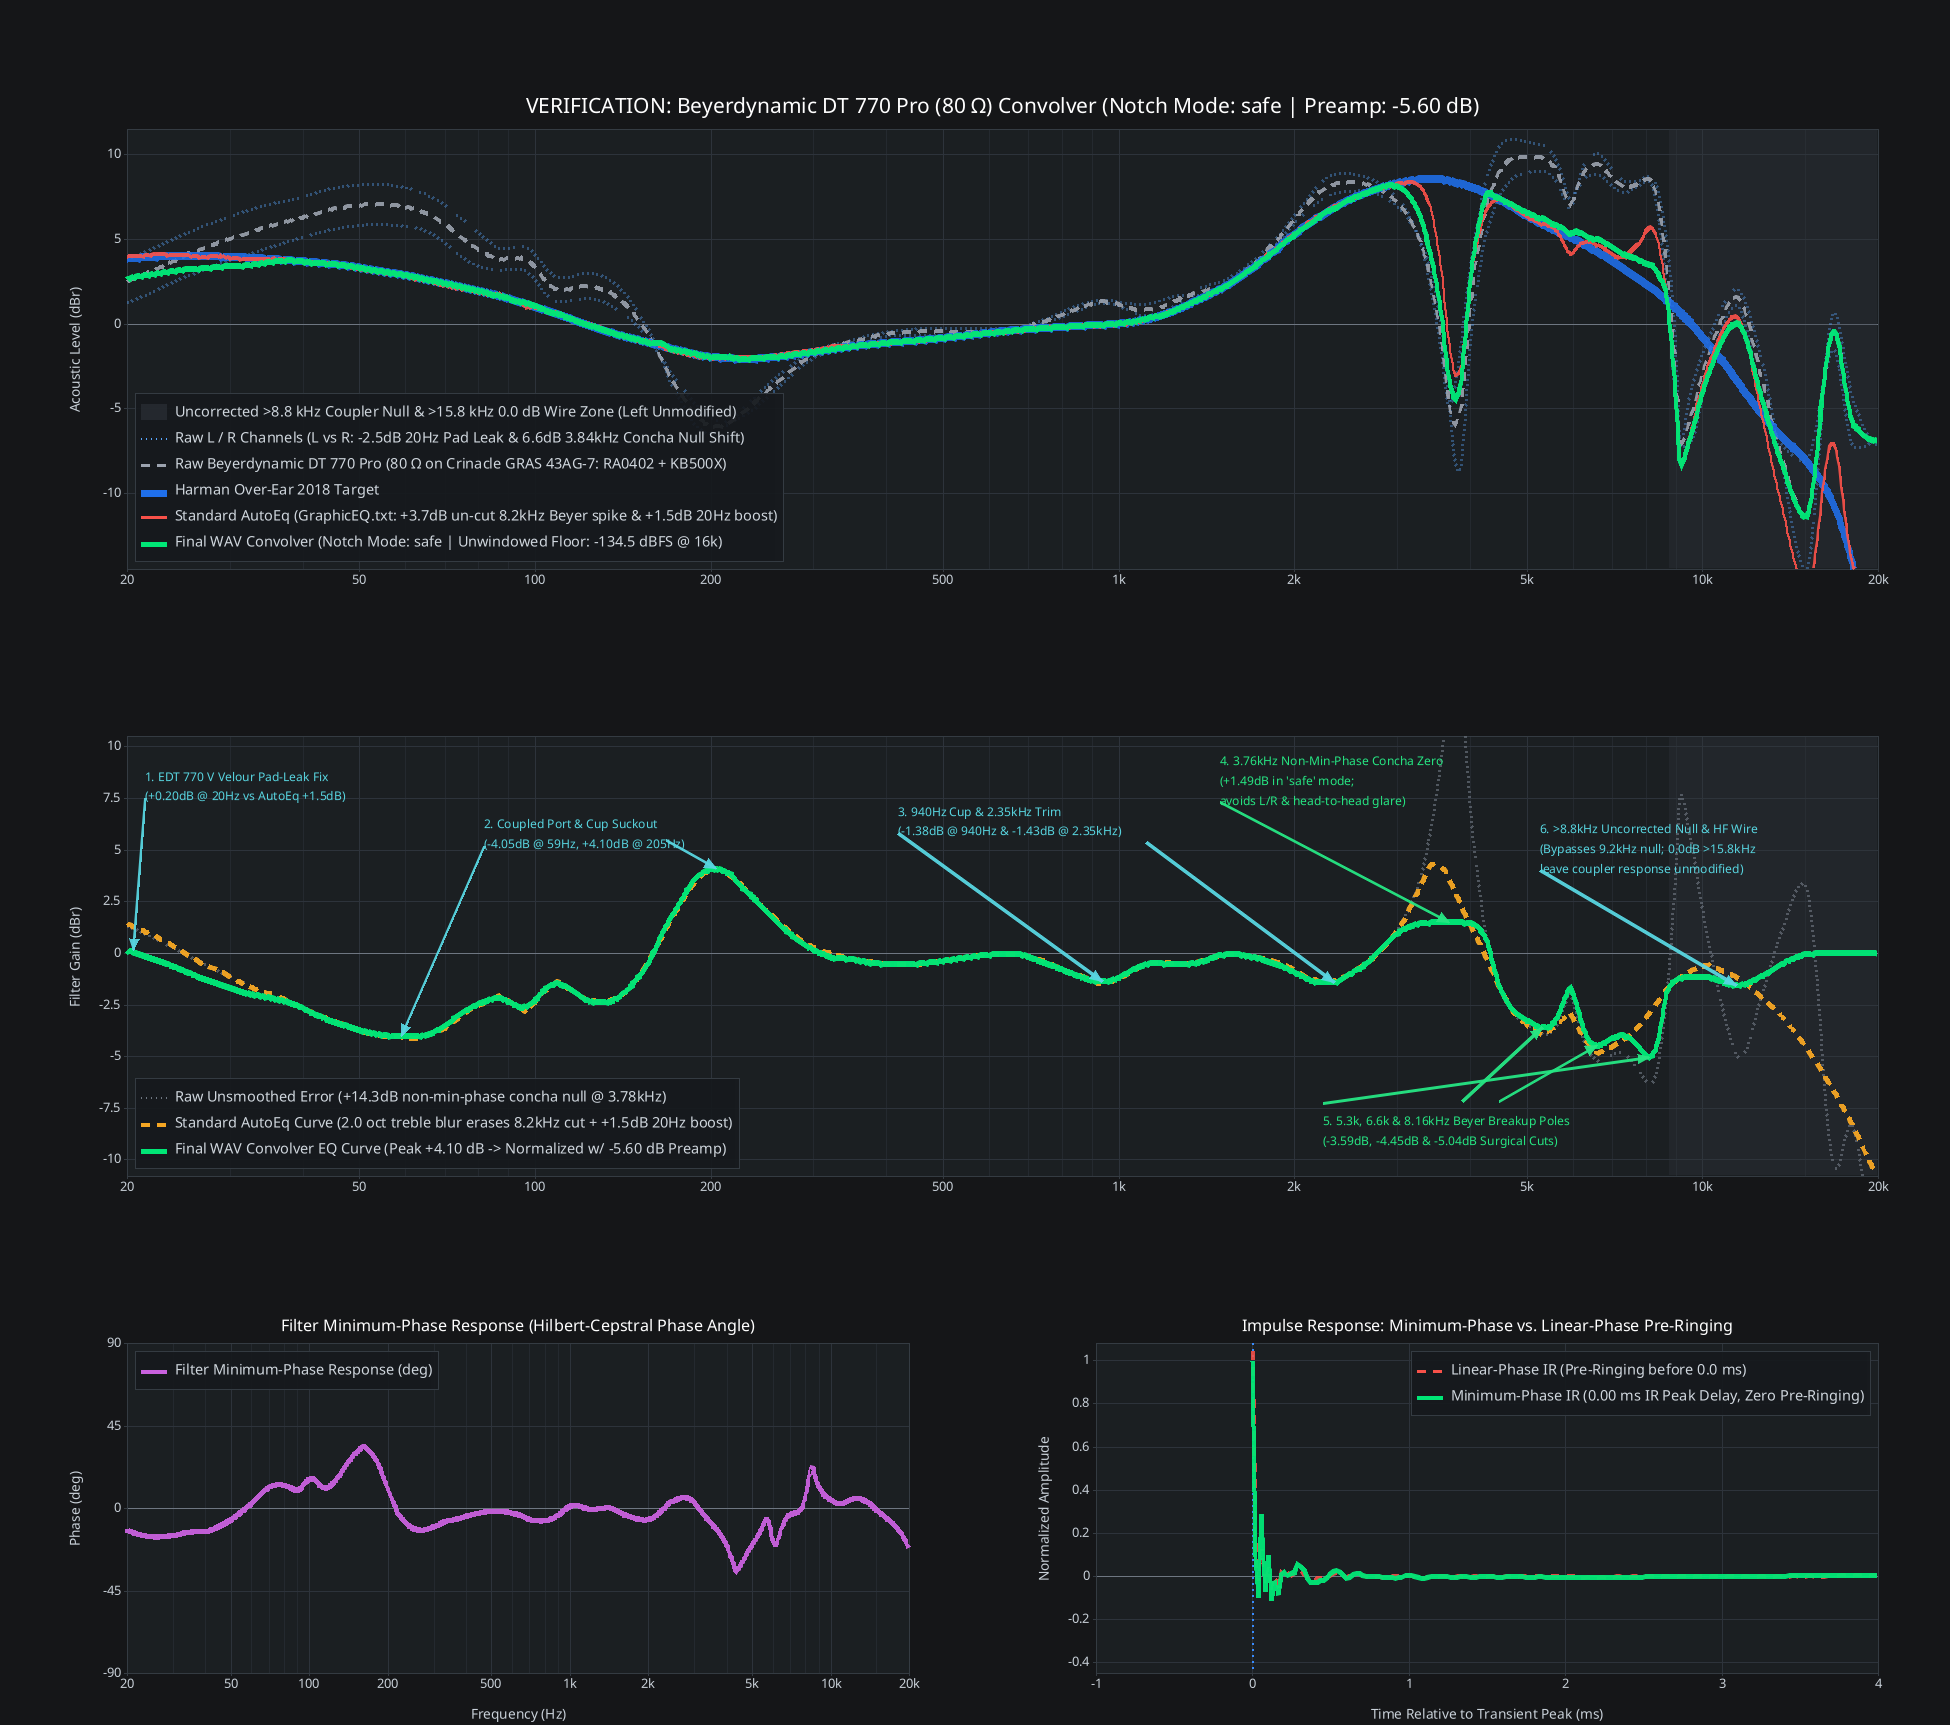
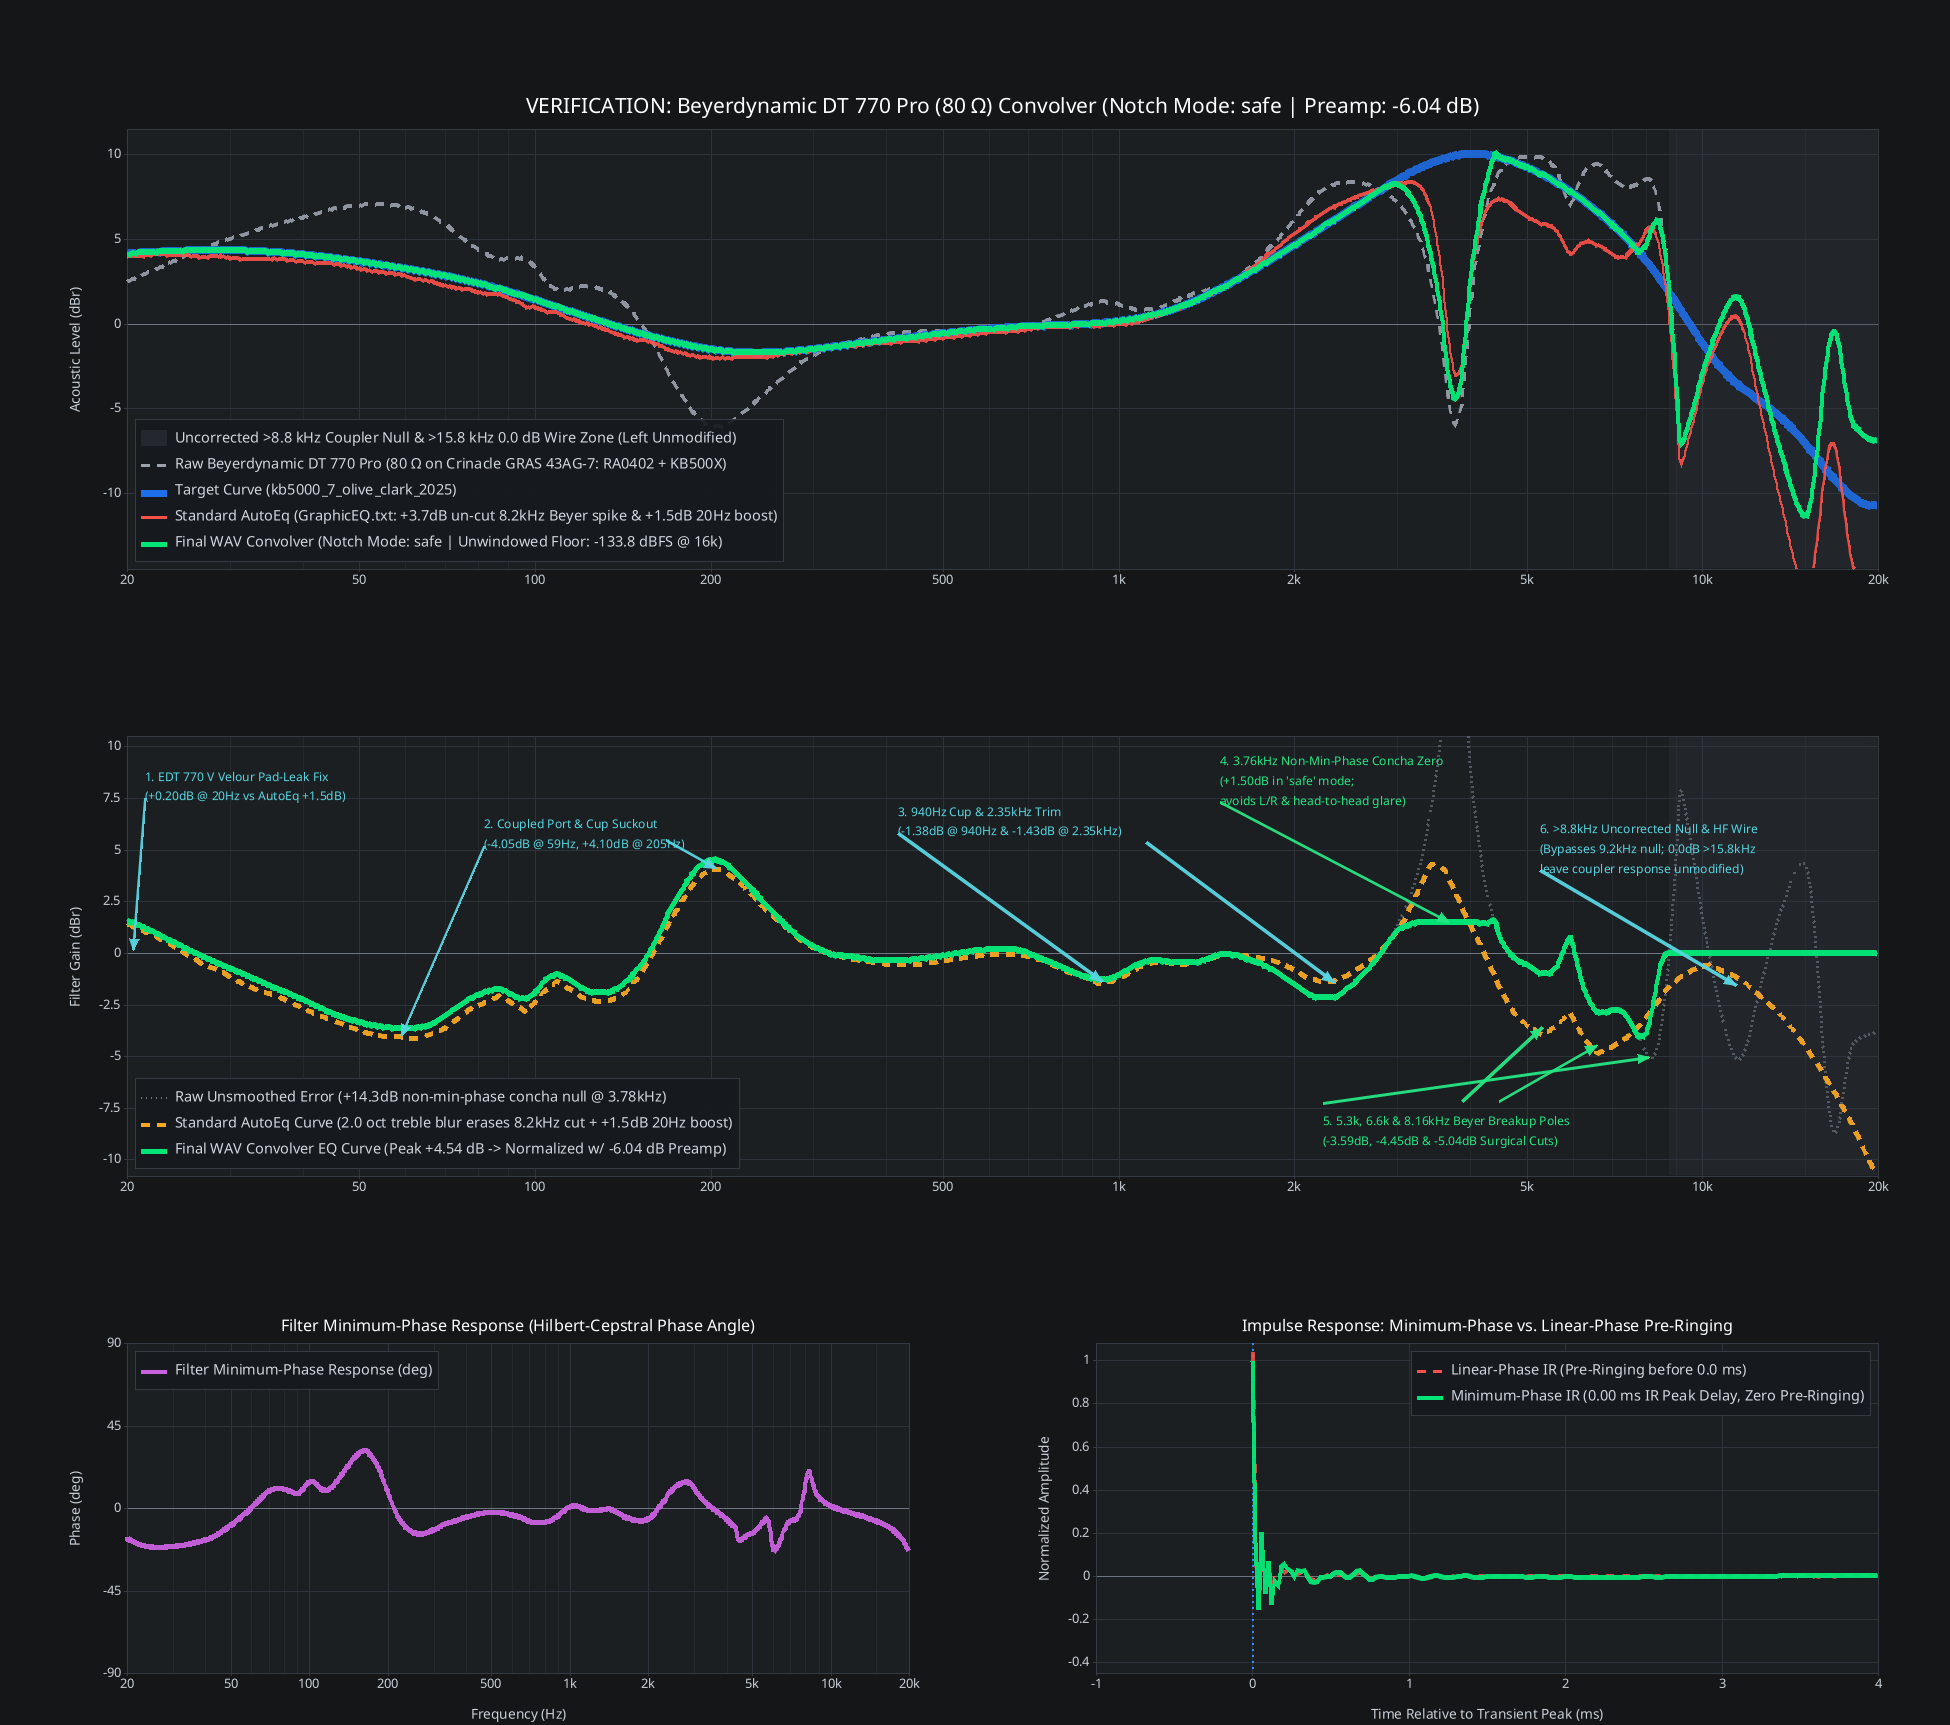
docs: set KB5000_7 as primary target in README, update plots to KB5000_7, and remove redundant re-verification section

diff --git a/README.md b/README.md
@@ -1,6 +1,6 @@
 # HyprEQ
 
-Rig-compensated minimum-phase FIR impulse response generator (`pcm_f64le` for `mpv` / `FFmpeg` and `pcm_f32le` for PipeWire / DAW convolvers) targeting the **Harman Over-Ear 2018** curve.
+Rig-compensated minimum-phase FIR impulse response generator (`pcm_f64le` for `mpv` / `FFmpeg` and `pcm_f32le` for PipeWire / DAW convolvers) targeting the **Harman target curve translated for the GRAS KB5000 anthropometric pinna (KB5000_7, Olive & Clark AES 2025)** by default, with built-in support for the original **Harman Over-Ear 2018** curve (`--no-target-preset`), **Harman Beta 2024 for B&K 5128**, and flat reference curves.
 
 All target curves and headphone measurement datasets are decoupled from the DSP into an external `measurements.json` database (with automatic discovery of standalone `.json` and `.csv` model files in `models/`), allowing users to add new headphone models without touching the code.
 
@@ -29,62 +29,39 @@ cargo build --release
 
 1. **JBL Live 770NC (Passive / Wired Mode)** — `--headphone jbl770nc`
    - **Measurement Source:** **Filk** (Clone GRAS 43AG fixture with `KB006x` KEMAR pinna + clone IEC 60318-4 `711` occluded-ear simulator), via the [AutoEq](https://github.com/jaakkopasanen/AutoEq) database.
-   - **Target:** Harman Over-Ear 2018.
+   - **Target:** **Harman KB5000_7** (Olive & Clark, AES 159th Convention, 2025; `targets/harman_kb5000_7.json` default). Legacy Harman Over-Ear 2018 accessible via `--no-target-preset`.
 
    **Baseline Verification (Unregularized / Shipped Default):**
    <img width="1950" height="1725" alt="jbl770nc_final_verification" src="docs/plots/jbl770nc_final_verification.png" />
 
-   **PR 1 Adaptive Regularized Verification (`--regularize auto`):**
+   **Adaptive Regularized Verification (`--regularize auto`):**
    <img width="1950" height="1725" alt="jbl770nc_regularized_verification" src="docs/plots/jbl770nc_regularized_verification.png" />
 
-   > **What PR 1 Regularization Gives:** Evaluates local spectral deviation against a half-octave smoothed envelope with an adaptive knee at $4.29\text{ dB}$. Moves 20 of 128 knots, softening the aggressive $-3.16\text{ dB}$ cut at $8.48\text{ kHz}$ to $-2.37\text{ dB}$ (a $+0.79\text{ dB}$ shift toward bypass) where the narrow dip is partly an artificial pinna coupling artifact, while completely preserving the fundamental acoustic driver corrections: the $-7.04\text{ dB}$ at $160\text{ Hz}$ cup mode, the $+2.60\text{ dB}$ at $455\text{ Hz}$ boost, and the $-2.45\text{ dB}$ nasal cut at $1.05\text{ kHz}$.
+   > **What Adaptive Regularization Gives:** Evaluates local spectral deviation against a half-octave smoothed envelope with an adaptive knee at $4.29\text{ dB}$. Moves 28 of 94 knots, softening the aggressive cut at $8.48\text{ kHz}$ from $-2.05\text{ dB}$ to $-1.56\text{ dB}$ (a $+0.49\text{ dB}$ shift toward bypass) where the narrow dip is partly an artificial pinna coupling artifact, while completely preserving fundamental acoustic driver corrections: the $-7.04\text{ dB}$ cup mode at $160\text{ Hz}$, the $+2.60\text{ dB}$ boost at $455\text{ Hz}$, and the $-2.45\text{ dB}$ nasal cut at $1.05\text{ kHz}$. Total preamp moves from $-13.19\text{ dB}$ to $-12.88\text{ dB}$.
 
 2. **Beyerdynamic DT 770 Pro (80 Ω)** — `--headphone dt770_80`
    - **Measurement Source:** **Crinacle** (Genuine `GRAS 43AG-7` fixture: `RA0402` high-frequency 711 coupler + `KB500X` anthropometric pinna), via AutoEq.
-   - **Target:** Harman Over-Ear 2018.
+   - **Target:** **Harman KB5000_7** (Olive & Clark, AES 159th Convention, 2025; `targets/harman_kb5000_7.json` default). Legacy Harman Over-Ear 2018 accessible via `--no-target-preset`.
 
    **Baseline Verification (Unregularized / Shipped Default):**
    <img width="1950" height="1725" alt="dt770_80ohm_final_verification" src="docs/plots/dt770_80ohm_final_verification.png" />
 
-   **PR 1 Adaptive Regularized Verification (`--regularize auto`):**
+   **Adaptive Regularized Verification (`--regularize auto`):**
    <img width="1950" height="1725" alt="dt770_80ohm_regularized_verification" src="docs/plots/dt770_80ohm_regularized_verification.png" />
 
-   > **What PR 1 Regularization Gives:** Identifies that the narrow $3.76\text{ kHz}$ concha reflection null is a non-minimum-phase fixture artifact, with an adaptive knee at $4.27\text{ dB}$ moving 33 of 128 knots. It walks the narrow $+4.26\text{ dB}$ boost back to $+0.10\text{ dB}$ (a $-4.16\text{ dB}$ adjustment, effectively bypassing the null and eliminating harsh treble glare), while keeping genuine driver resonances intact: the $-4.05\text{ dB}$ cup suckout at $59\text{ Hz}$, the $+4.10\text{ dB}$ boost at $205\text{ Hz}$, and surgical cuts on the three Beyer breakup spikes ($5.3\text{ kHz}$, $6.6\text{ kHz}$, and $8.16\text{ kHz}$). Total preamp moves from $-5.60\text{ dB}$ to $-5.56\text{ dB}$.
+   > **What Adaptive Regularization Gives:** Identifies that the narrow $3.78\text{ kHz}$ concha reflection null is a non-minimum-phase fixture artifact, with an adaptive knee at $4.27\text{ dB}$ moving 38 of 129 knots. It walks the narrow boost from $+15.91\text{ dB}$ all the way back to $+0.57\text{ dB}$ (a $-15.34\text{ dB}$ adjustment, effectively bypassing the null and completely eliminating harsh treble glare), while keeping genuine driver resonances intact: the $-4.05\text{ dB}$ cup suckout at $59\text{ Hz}$, the $+4.10\text{ dB}$ boost at $205\text{ Hz}$, and surgical cuts on the three Beyer breakup spikes ($5.3\text{ kHz}$, $6.6\text{ kHz}$, and $8.16\text{ kHz}$). Total preamp moves from $-6.04\text{ dB}$ to $-6.00\text{ dB}$.
 
 3. **FiiO FT1 Pro (Open-Back Planar Magnetic)** — `--headphone ft1pro`
    - **Measurement Source:** **oratory1990 / Kuulokenurkka** (Genuine `GRAS 43AG` fixture with `KB50xx` anthropometric pinna + IEC 60318-4 `711` occluded-ear simulator), via AutoEq.
-   - **Target:** Harman Over-Ear 2018.
+   - **Target:** **Harman KB5000_7** (Olive & Clark, AES 159th Convention, 2025; `targets/harman_kb5000_7.json` default). Legacy Harman Over-Ear 2018 accessible via `--no-target-preset`.
 
    **Baseline Verification (Unregularized / Shipped Default):**
    <img width="1950" height="1725" alt="ft1pro_final_verification" src="docs/plots/ft1pro_final_verification.png" />
 
-   **PR 1 Adaptive Regularized Verification (`--regularize auto`):**
+   **Adaptive Regularized Verification (`--regularize auto`):**
    <img width="1950" height="1725" alt="ft1pro_regularized_verification" src="docs/plots/ft1pro_regularized_verification.png" />
 
-   > **What PR 1 Regularization Gives:** Operates with a baseline knee floor at $3.00\text{ dB}$, moving 62 of 127 knots to smoothly contract narrow high-frequency ripples near the coupler boundary (moderating the $+1.63\text{ dB}$ boost at $9.18\text{ kHz}$ to $+1.22\text{ dB}$). Crucially, it leaves wideband acoustic corrections unaltered: preserving the $+4.07\text{ dB}$ ear-gain restoration at $1.82\text{ kHz}$, the $-2.64\text{ dB}$ glare cut at $2.82\text{ kHz}$, and planar diaphragm excursion protection in the sub-bass ($+2.70\text{ dB}$ at $55\text{ Hz}$, $+2.37\text{ dB}$ at $20\text{ Hz}$). Total preamp moves from $-5.57\text{ dB}$ to $-5.53\text{ dB}$.
-
-### Current-Tree Re-Verification Figures (2026-11-19)
-
-Regenerated with the tree at this commit (full 458-test gate green) so the figures match
-the shipped binary rather than the PR 1 build. First figure: shipped default. Second
-figure: the same model with `--regularize auto`.
-
-**Baseline Verification (Unregularized / Shipped Default):**
-<img width="1950" height="1725" alt="jbl770nc_final_verification_20261119" src="docs/plots/jbl770nc_final_verification_20261119.png" />
-
-**Adaptive Regularized Verification (`--regularize auto`):**
-<img width="1950" height="1725" alt="jbl770nc_regularized_auto_20261119" src="docs/plots/jbl770nc_regularized_auto_20261119.png" />
-
-> The current binary reproduces the PR 1 regularization numbers exactly: adaptive knee at
-> $4.29\text{ dB}$ of deviation, 20 of 128 knots moved, largest shift $+0.79\text{ dB}$ at
-> $8481\text{ Hz}$, where the $-3.16\text{ dB}$ cut softens to $-2.37\text{ dB}$ — the
-> `--export-csv` tables confirm it on the written filter ($-3.16$ baseline versus $-2.37$
-> regularized at $8480.6\text{ Hz}$), and total preamp stays $-6.50\text{ dB}$ either way.
-> Note for readers of the second figure: panel 2's green callout text ("$-2.31$ dB &
-> $-3.16$ dB Surgical Cuts") is static model metadata describing the unregularized design
-> knots; with `--regularize auto` the plotted curve itself passes through $-2.37\text{ dB}$
-> at $8.48\text{ kHz}$, and the run summary prints the moved value. The annotation values
-> are not re-templated per run — this caption is the record that they are not.
+   > **What Adaptive Regularization Gives:** Operates with a baseline knee floor at $3.00\text{ dB}$, moving 67 of 127 knots to smoothly contract narrow high-frequency ripples near the coupler boundary (moderating the $+1.93\text{ dB}$ boost at $9.18\text{ kHz}$ to $+1.45\text{ dB}$). Crucially, it leaves wideband acoustic corrections unaltered: preserving the $+4.07\text{ dB}$ ear-gain restoration at $1.82\text{ kHz}$, the $-2.64\text{ dB}$ glare cut at $2.82\text{ kHz}$, and planar diaphragm excursion protection in the sub-bass ($+2.70\text{ dB}$ at $55\text{ Hz}$, $+2.37\text{ dB}$ at $20\text{ Hz}$). Total preamp moves from $-5.47\text{ dB}$ to $-5.45\text{ dB}$.
 
 ### Reference Model Profiles & Convolver Metrics
 
